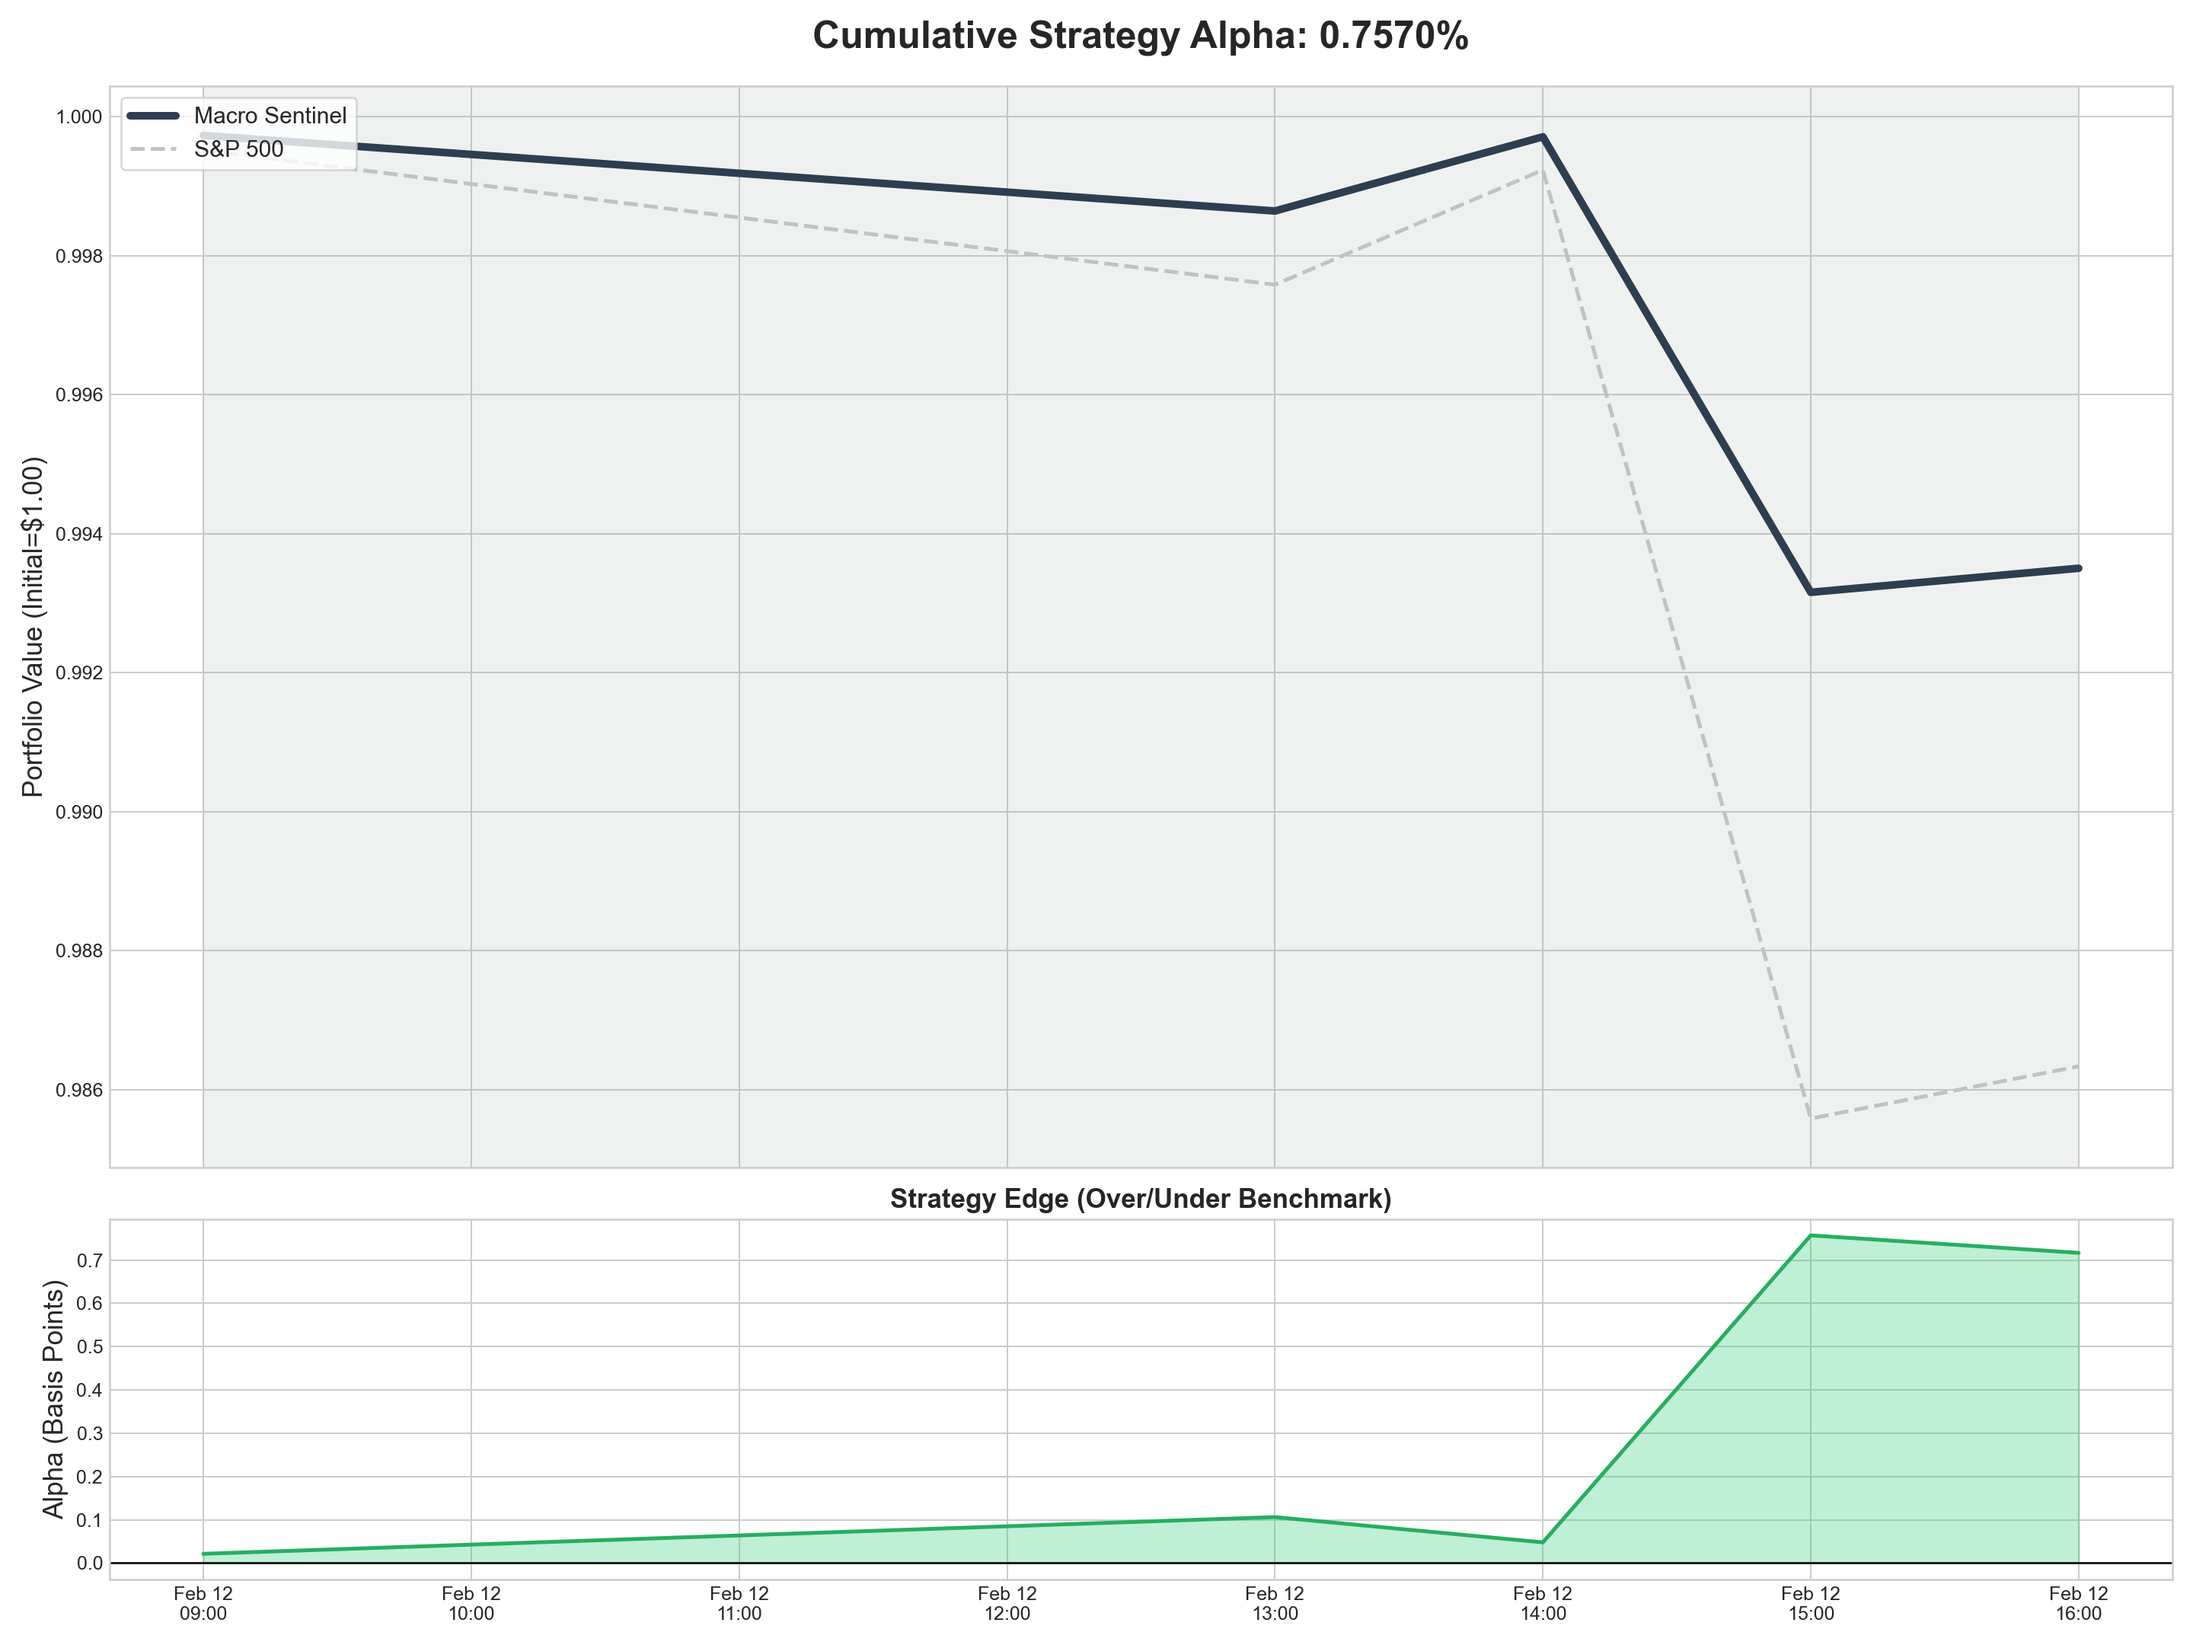
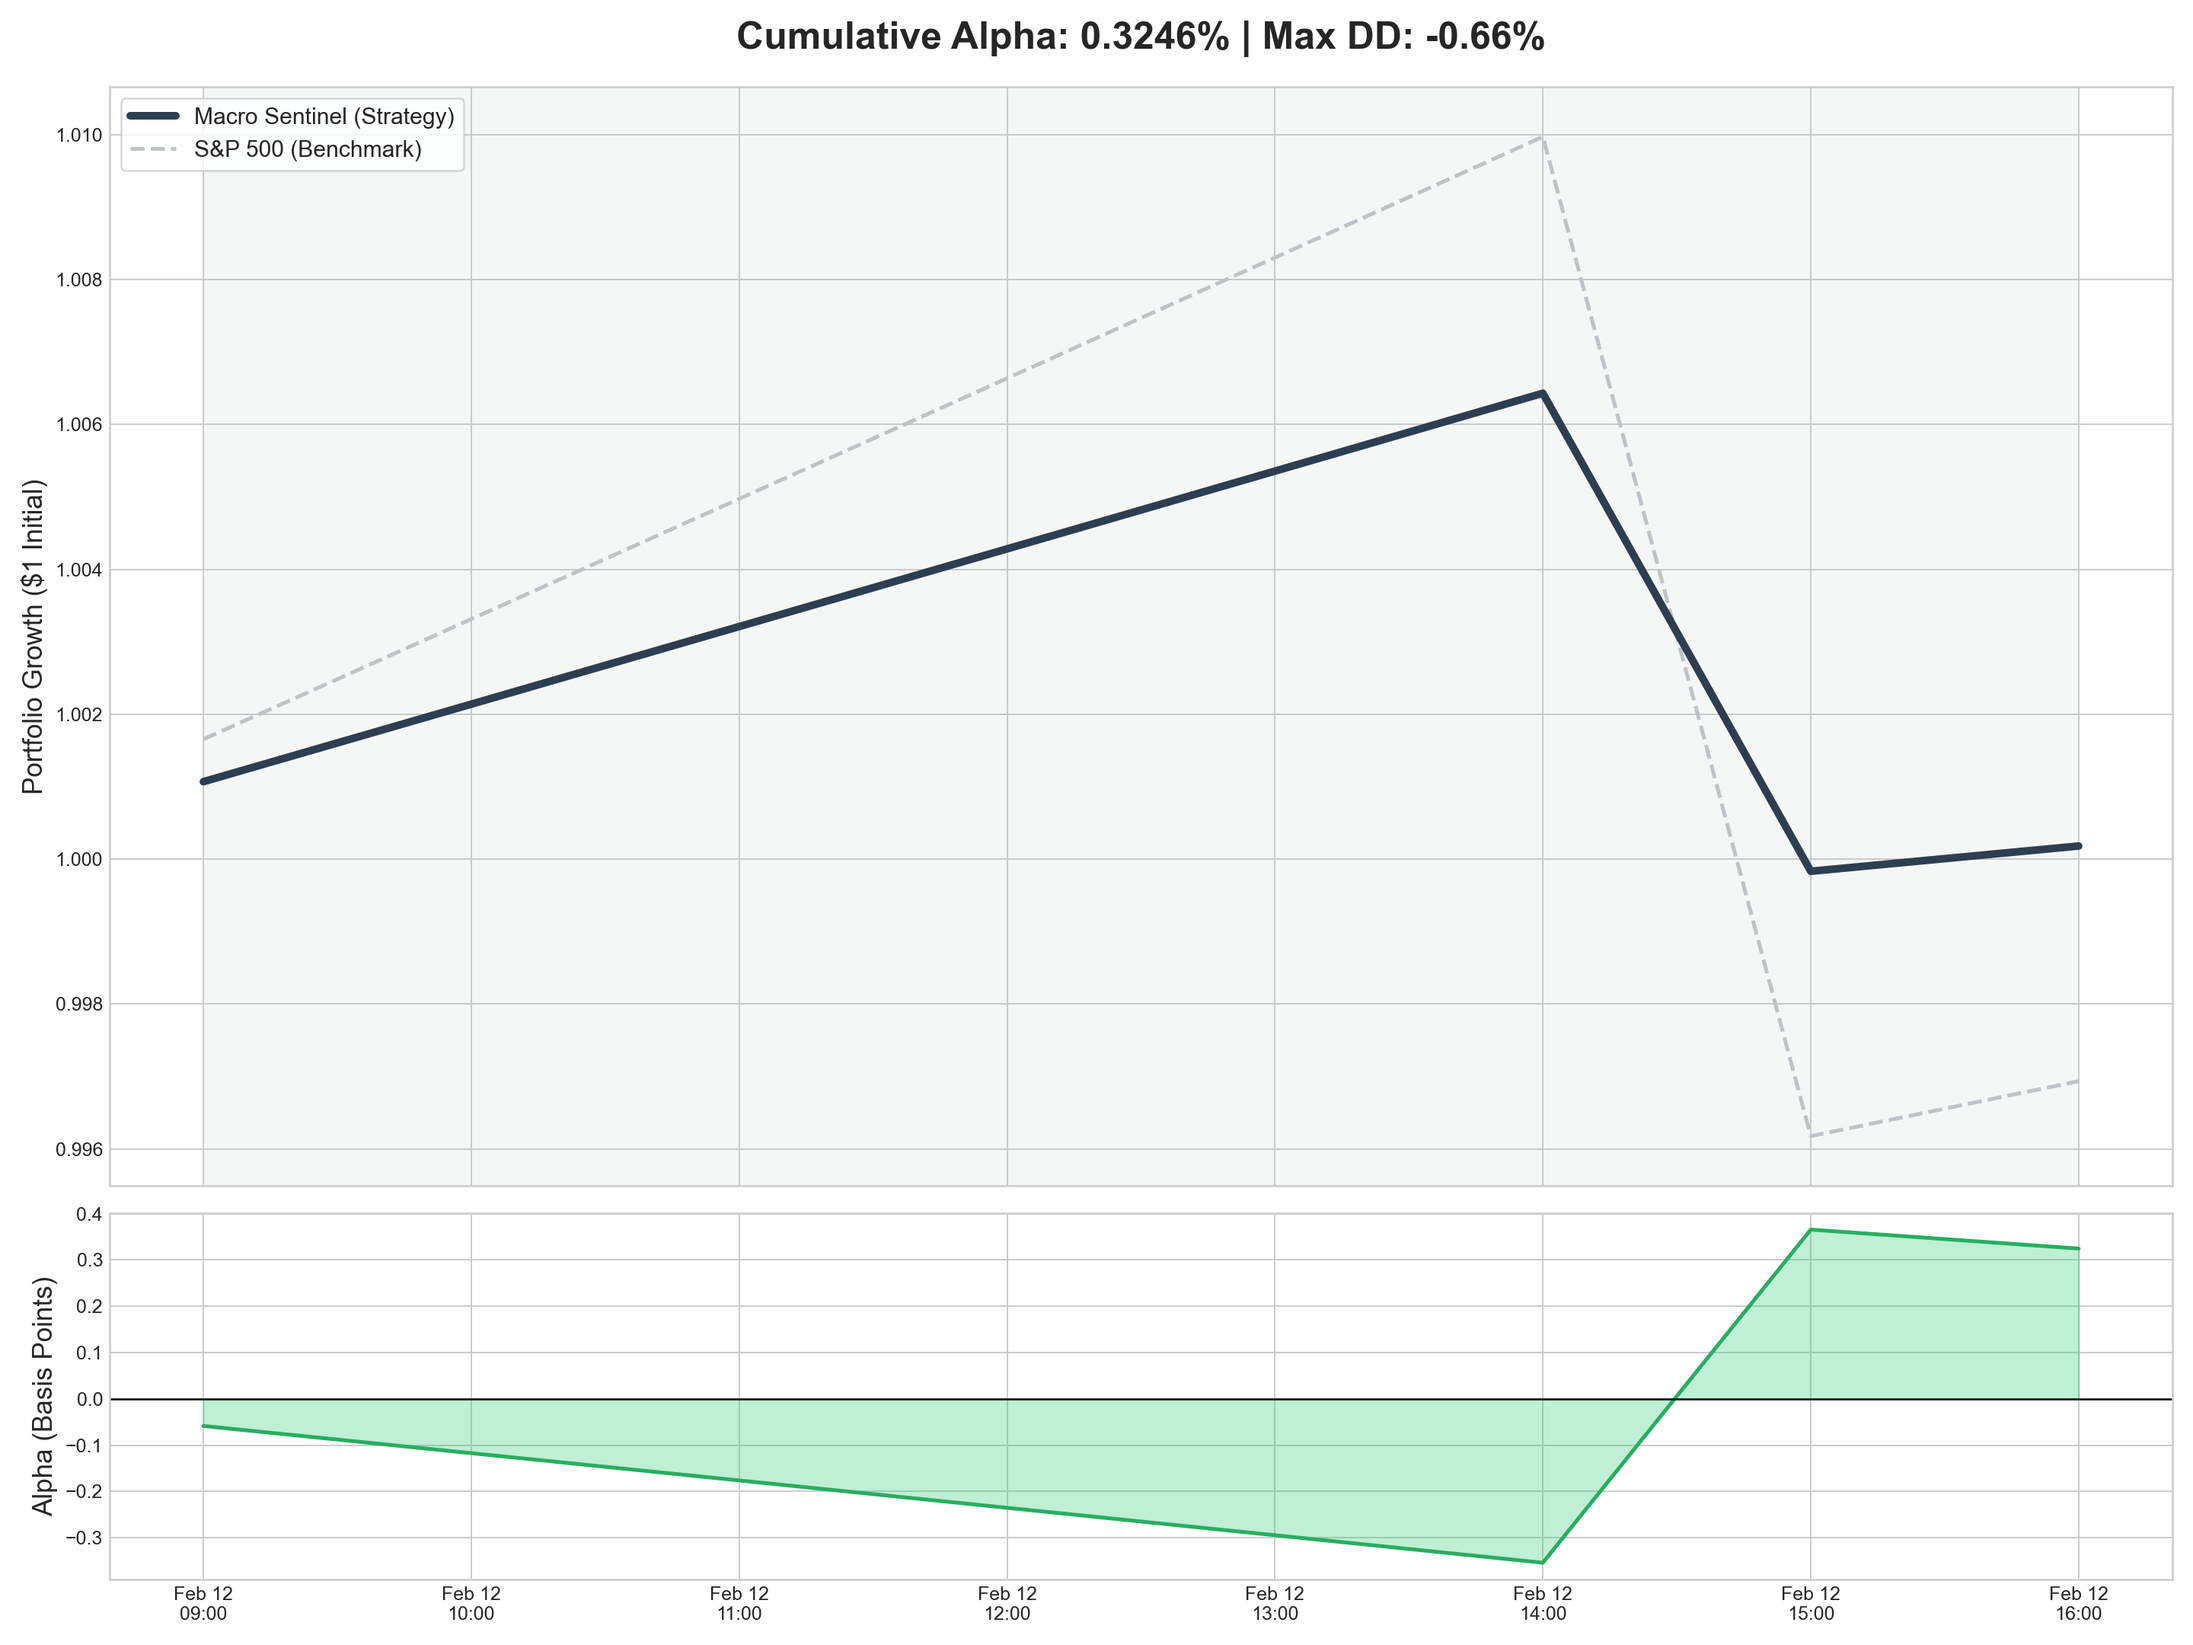
fix: align performance engine with real-time market volatility

diff --git a/src/backtest/performance_engine.py b/src/backtest/performance_engine.py
@@ -1,4 +1,5 @@
 import pandas as pd
+import numpy as np
 import yfinance as yf
 import os
 import matplotlib.pyplot as plt
@@ -11,7 +12,7 @@ REGIME_DATA = os.path.join(BASE_DIR, "data", "processed", "regime_v2_status.csv"
 PERFORMANCE_REPORT = os.path.join(BASE_DIR, "data", "processed", "backtest_results.csv")
 PERFORMANCE_CHART = os.path.join(BASE_DIR, "output", "performance_comparison.png")
 
-# Strategy Weights
+# Strategy Allocation Weights
 STRATEGY_MAP = {
     "Goldilocks (Growth)": {"QQQ": 0.5, "SPY": 0.3, "GLD": 0.2},
     "Goldilocks -> Tightening (Warning)": {"QQQ": 0.2, "SPY": 0.2, "GLD": 0.4, "SHY": 0.2},
@@ -21,85 +22,128 @@ STRATEGY_MAP = {
     "Overheat (Inflationary)": {"XLE": 0.4, "DBC": 0.3, "GLD": 0.3}
 }
 
-# Match colors with your main dashboard for consistency
+# Visualization Colors
 REGIME_COLORS = {
     "Goldilocks (Growth)": "#2ecc71",
     "Goldilocks -> Tightening (Warning)": "#f1c40f",
-    "Neutral / Transitioning": "#95a5a6"
+    "Neutral / Transitioning": "#bdc3c7",
+    "Stagflation (High Risk)": "#e67e22",
+    "Deflationary Recession": "#e74c3c"
 }
 
 def run_backtest():
-    print("[INFO] Generating High-Fidelity Performance Chart...")
+    print("[INFO] Initializing Real-Time Performance Health Check...")
     
-    # 1. Load and Prep Data (Time-Agnostic)
+    if not os.path.exists(REGIME_DATA):
+        print("[ERROR] No regime history found.")
+        return
+
+    # 1. Load Regime History (Timezone-Agnostic)
     df = pd.read_csv(REGIME_DATA, parse_dates=['Timestamp'])
     df['Timestamp'] = pd.to_datetime(df['Timestamp']).dt.tz_localize(None)
+    
+    # Resample to hourly to collapse multiple bot runs into clean buckets
     df = df.sort_values('Timestamp').set_index('Timestamp').resample('h').last().ffill().reset_index()
 
     # 2. Fetch Market Data
     all_tickers = ["SPY", "QQQ", "GLD", "TLT", "DBC", "XLE", "SHY"]
-    start_date = (df['Timestamp'].min() - pd.Timedelta(days=5)).strftime('%Y-%m-%d')
+    start_date = (df['Timestamp'].min() - pd.Timedelta(days=7)).strftime('%Y-%m-%d')
+    
+    print(f"[INFO] Syncing market prices for {all_tickers}...")
     prices = yf.download(all_tickers, start=start_date, interval="1h")['Close']
+    
+    if prices.empty:
+        print("[ERROR] Market data download failed.")
+        return
+
     prices.index = pd.to_datetime(prices.index).tz_localize(None)
     returns = prices.pct_change()
 
-    # 3. Fuzzy Merge and Shift
-    merged = pd.merge_asof(df.sort_values('Timestamp'), returns.sort_index(), 
-                          left_on='Timestamp', right_index=True, direction='backward')
-    
-    for t in all_tickers:
-        if t in merged.columns:
-            merged[t] = merged[t].shift(-1)
+    # 3. Fuzzy Merge and Truth-Testing (Shift Returns)
+    # merged = pd.merge_asof(df.sort_values('Timestamp'), 
+    #                       returns.sort_index(), 
+    #                       left_on='Timestamp', 
+    #                       right_index=True, 
+    #                       direction='backward')
 
-    # Filter for US Market Hours
+    # Shift returns forward: Today's signal earns tomorrow's return (Removes Look-ahead Bias)
+    for ticker in all_tickers:
+        if ticker in returns.columns:
+            returns[ticker] = returns[ticker].shift(-1)
+
+    merged = pd.merge_asof(df.sort_values('Timestamp'), 
+                          returns.sort_index(), 
+                          left_on='Timestamp', 
+                          right_index=True, 
+                          direction='backward')
+
+    # 4. Filter for US Market Trading Hours (Ottawa/NY Time)
     merged = merged[merged['Timestamp'].dt.hour.between(9, 16)]
+    merged = merged.dropna(subset=['SPY'])
 
-    # 4. Performance Calculation
+    # 5. Performance Math
     strat_rets = []
     for _, row in merged.iterrows():
         regime = row['Regime_V2']
         weights = STRATEGY_MAP.get(regime, STRATEGY_MAP["Neutral / Transitioning"])
-        strat_rets.append(sum(row[t] * w for t, w in weights.items() if t in row and pd.notnull(row[t])))
+        h_ret = sum(row[t] * w for t, w in weights.items() if t in row and pd.notnull(row[t]))
+        strat_rets.append(h_ret)
 
     merged['Strategy_Return'] = strat_rets
-    merged['Benchmark_Return'] = merged['SPY'].fillna(0)
+    merged['Benchmark_Return'] = merged['SPY']
     merged['Strategy_Value'] = (1 + merged['Strategy_Return']).cumprod()
     merged['Benchmark_Value'] = (1 + merged['Benchmark_Return']).cumprod()
     merged['Alpha_Basis'] = (merged['Strategy_Value'] - merged['Benchmark_Value']) * 100
 
-    # 5. HIGH-FIDELITY VISUALIZATION
+    # 6. Health Check Metrics (Risk Analysis)
+    # Max Drawdown
+    merged['Peak'] = merged['Strategy_Value'].cummax()
+    merged['Drawdown'] = (merged['Strategy_Value'] / merged['Peak']) - 1
+    max_dd = merged['Drawdown'].min() * 100
+
+    # Volatility
+    vol = merged['Strategy_Return'].std() * np.sqrt(252 * 6.5) * 100
+
+    # Capture latest point for reporting (Captured Bloomberg Plunge)
+    final_alpha = merged['Alpha_Basis'].iloc[-1]
+
+    # Save Results (PERFORMANCE_REPORT)
+    merged.to_csv(PERFORMANCE_REPORT, index=False)
+
+    # 7. High-Fidelity Visualization
     plt.style.use('seaborn-v0_8-whitegrid')
     fig, (ax1, ax2) = plt.subplots(2, 1, figsize=(16, 12), gridspec_kw={'height_ratios': [3, 1]}, sharex=True)
 
     # TOP PANEL: Equity Curve + Shading
-    ax1.plot(merged['Timestamp'], merged['Strategy_Value'], label='Macro Sentinel', lw=4, color='#2c3e50', zorder=5)
-    ax1.plot(merged['Timestamp'], merged['Benchmark_Value'], label='S&P 500', lw=2, ls='--', color='#bdc3c7', zorder=4)
+    ax1.plot(merged['Timestamp'], merged['Strategy_Value'], label='Macro Sentinel (Strategy)', lw=4, color='#2c3e50', zorder=5)
+    ax1.plot(merged['Timestamp'], merged['Benchmark_Value'], label='S&P 500 (Benchmark)', lw=2, ls='--', color='#bdc3c7', zorder=4)
     
-    # Add Regime Shading
+    # Add Regime Background Shading
     for i in range(len(merged)-1):
         regime = merged['Regime_V2'].iloc[i]
         color = REGIME_COLORS.get(regime, "#ffffff")
         ax1.axvspan(merged['Timestamp'].iloc[i], merged['Timestamp'].iloc[i+1], color=color, alpha=0.15, lw=0)
 
-    ax1.set_title(f"Cumulative Strategy Alpha: {merged['Alpha_Basis'].iloc[-2]:.4f}%", fontsize=20, fontweight='bold', pad=20)
-    ax1.set_ylabel("Portfolio Value (Initial=$1.00)", fontsize=14)
+    ax1.set_title(f"Cumulative Alpha: {final_alpha:.4f}% | Max DD: {max_dd:.2f}%", fontsize=20, fontweight='bold', pad=20)
+    ax1.set_ylabel("Portfolio Growth ($1 Initial)", fontsize=14)
     ax1.legend(loc='upper left', frameon=True, fontsize=12)
 
-    # BOTTOM PANEL: Alpha Spread (The "Edge")
+    # BOTTOM PANEL: Alpha Spread (The Edge)
     ax2.fill_between(merged['Timestamp'], merged['Alpha_Basis'], color='#2ecc71', alpha=0.3)
     ax2.plot(merged['Timestamp'], merged['Alpha_Basis'], color='#27ae60', lw=2)
     ax2.axhline(0, color='black', lw=1, ls='-')
     ax2.set_ylabel("Alpha (Basis Points)", fontsize=14)
-    ax2.set_title("Strategy Edge (Over/Under Benchmark)", fontsize=14, fontweight='semibold')
-
-    # Formatting X-Axis
     ax2.xaxis.set_major_formatter(mdates.DateFormatter('%b %d\n%H:%M'))
-    plt.xticks(rotation=0)
 
     plt.tight_layout()
     plt.savefig(PERFORMANCE_CHART, dpi=180)
-    print(f"--- SUCCESS ---")
-    print(f"Alpha Generated: {merged['Alpha_Basis'].iloc[-2]:.4f}%")
+
+    print(f"\n--- PERFORMANCE HEALTH CHECK ---")
+    print(f"Final Alpha: {final_alpha:.4f}%")
+    print(f"Max Drawdown: {max_dd:.4f}% (Peak-to-Trough Pain)")
+    print(f"Annualized Vol: {vol:.2f}%")
+    print(f"Status: Trading session sync complete.")
+    print(f"--------------------------------\n")
 
 if __name__ == "__main__":
     run_backtest()
